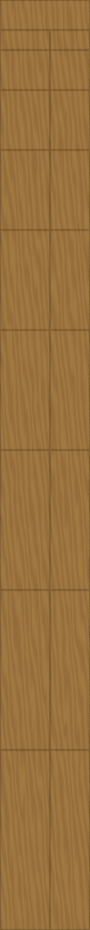
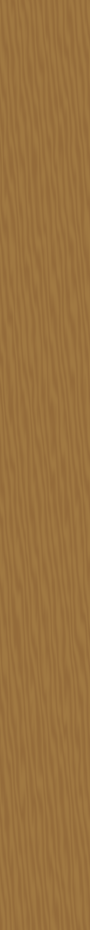
Polish UI

diff --git a/src/index.scss b/src/index.scss
@@ -1,7 +1,14 @@
+$color: darken(#3F2D1A, 5);
+
+* {
+  box-sizing: border-box;
+}
+
 body {
   margin: 0;
   overflow: hidden;
   font-family: Verdana, Geneva, Tahoma, sans-serif;
+  color: $color;
 }
 
 #triangle, #background {
@@ -11,35 +18,88 @@ body {
 #container {
   height: 100vh;
   display: flex;
-  align-items: center;
-  justify-content: space-around;
 }
 
 #sidebar {
-  align-self: flex-start;
-  text-align: center;
+  z-index: 1;
+  box-shadow: 0 0 15px rgba(0, 0, 0, .8);
+  background: url(assets/background.png);
+  background-size: 40% auto;
+  padding: 10px;
+  max-width: 400px;
 
-  p {
-    font-size: x-small;
+  h2, h3 {
+    text-align: center;
+  }
+}
+
+#footer {
+  text-align: center;
+  font-size: x-small;
+}
+
+#inputs {
+  text-align: center;
+  vertical-align: middle;
+
+  a {
+    cursor: pointer;
+    color: black;
+    text-decoration: unset;
   }
 
-  input {
-    text-align: center;
+  input, a {
+    $buttonColor: lighten($color, 35);
+    border: 1px solid darken($buttonColor, 25);
+    background: $buttonColor;
+  }
 
+  input, span, a {
+    display: inline-block;
+    vertical-align: middle;
+    font-family: monospace;
+    text-align: center;
+    padding: 0 3px;
+    height: 20px;
+    margin: 0;
+    
     &:invalid {
       background: red;
     }
   }
+
+  a, span {
+    &::before {
+      content: '';
+      display: inline-block;
+      height: 100%;
+      vertical-align: middle;
+    }
+  }
+
+  &::before {
+    content: '';
+    display: inline-block;
+    height: 100%;
+    vertical-align: middle;
+  }
 }
 
 #number {
-  width: 10em;
+  width: 11ch;
 }
 
 #multiplier {
-  width: 1em;
+  width: 2ch;
 }
 
+#canvasContainer {
+  background: url(assets/triangle.png);
+  width: 900px;
+  flex-grow: 1;
+  display: flex;
+  align-items: center;
+}
 input[type=number]::-webkit-outer-spin-button,
 input[type=number]::-webkit-inner-spin-button {
     -webkit-appearance: none;

diff --git a/src/index.html b/src/index.html
@@ -10,15 +10,24 @@
   <div id="container">
     <div id="sidebar">
       <h2>Genaille-Lucas Rulers</h2>
-      <input id="number" type="number" min="0" max="9999999999">
-      <span>X</span>
-      <input id="multiplier" type="number" min="1" max="9">
-      <span>=</span>
-      <span id="result">???</span>
-      <br><button id="calculate">Calculate</button>
-      <p>Inspired by <a href="https://www.youtube.com/watch?v=OxRMyPsLtTk">Vsauce's toys</a></p>
+      <div id="inputs">
+        <input id="number" type="number" min="0" max="9999999999">
+        <span>X</span>
+        <input id="multiplier" type="number" min="1" max="9">
+        <span>=</span>
+        <a id="calculate">Calculate</a>
+      </div>
+      <p>Genaille-Lucas Rulers are special rulers designed to quickly do multiplication without having to do the math</p>
+      <h3>How does it work?</h3>
+      <p>Let's say you want to multiply 618 x 7</p>
+      <p>First you put the Index, 6, 1 and 8 rulers on the table</p>
+      <p>Then you follow the 7 row on the index ruler up to the right-most ruler, and go to the first number</p>
+      <p>Now all you have to do is to follow the triangles from ruler to ruler, and once you get to the Index ruler just read all the numbers you passed through to get the result!</p>
+      <p id="footer">Inspired by <a href="https://www.youtube.com/watch?v=OxRMyPsLtTk">Vsauce's toys</a></p>
     </div>
-    <canvas id="canvas" width="990" height="930"></canvas>
+    <div id="canvasContainer">
+      <canvas id="canvas" height="930"></canvas>
+    </div>
   </div>
 </body>
 </html>

diff --git a/src/index.ts b/src/index.ts
@@ -5,7 +5,7 @@ import calculate from "./modules/calculator";
 import IndexRuler from "./modules/indexRuler";
 import Ruler from "./modules/ruler";
 
-import * as background from "./assets/background.png";
+import * as rulerBG from "./assets/ruler.png";
 import * as triangle from "./assets/triangle.png";
 
 // Load images
@@ -14,10 +14,10 @@ triangleTexture.src = triangle;
 triangleTexture.id = "triangle";
 document.body.appendChild(triangleTexture);
 
-const backgroundTexture = document.createElement("img");
-backgroundTexture.src = background;
-backgroundTexture.id = "background";
-document.body.appendChild(backgroundTexture);
+const rulerTexture = document.createElement("img");
+rulerTexture.src = rulerBG;
+rulerTexture.id = "background";
+document.body.appendChild(rulerTexture);
 
 window.addEventListener("DOMContentLoaded", () => {
 
